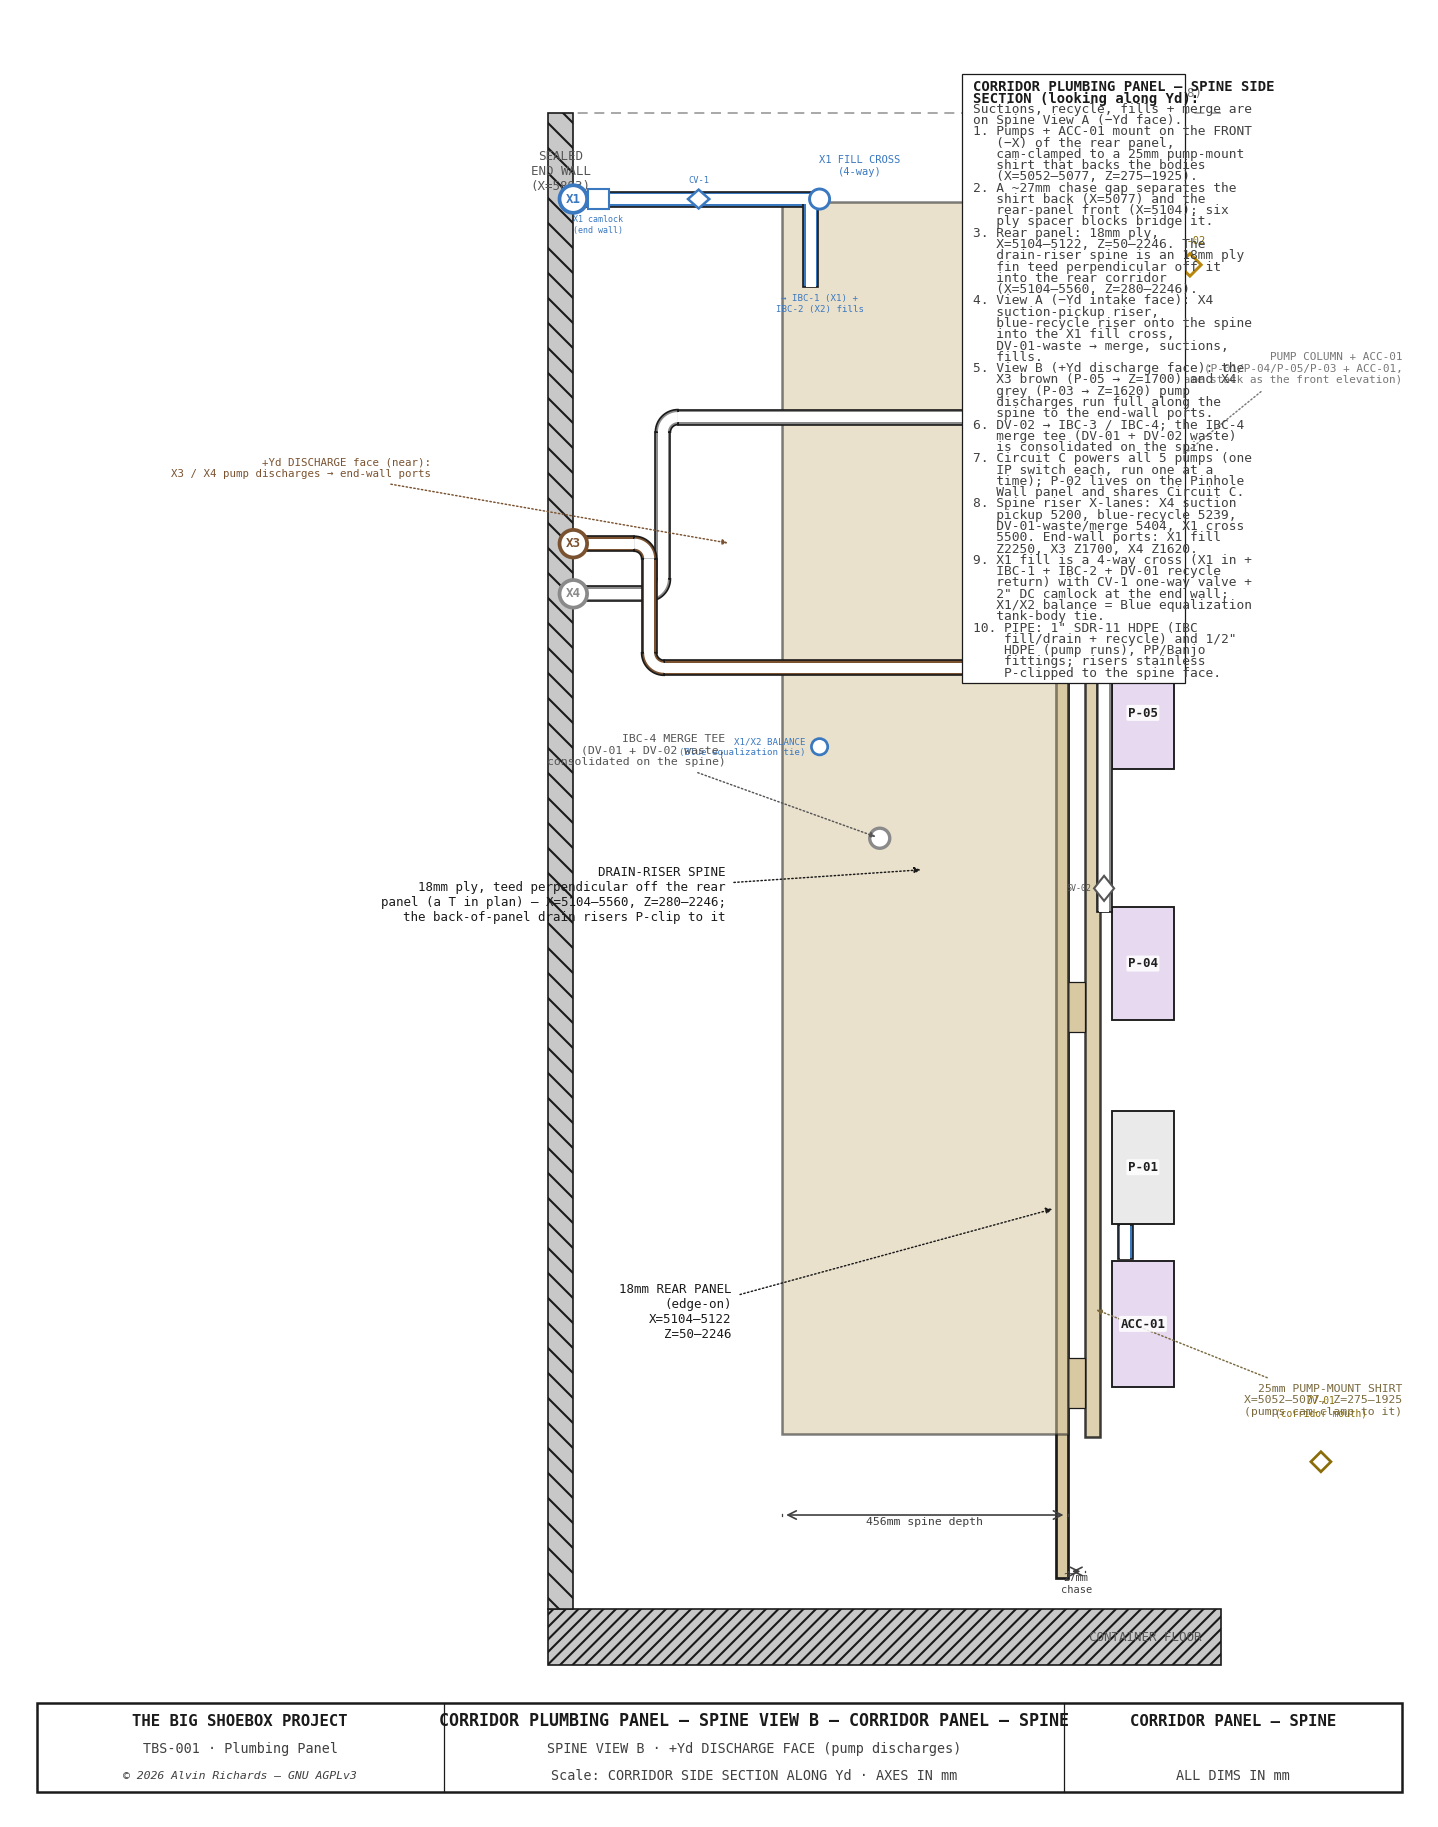
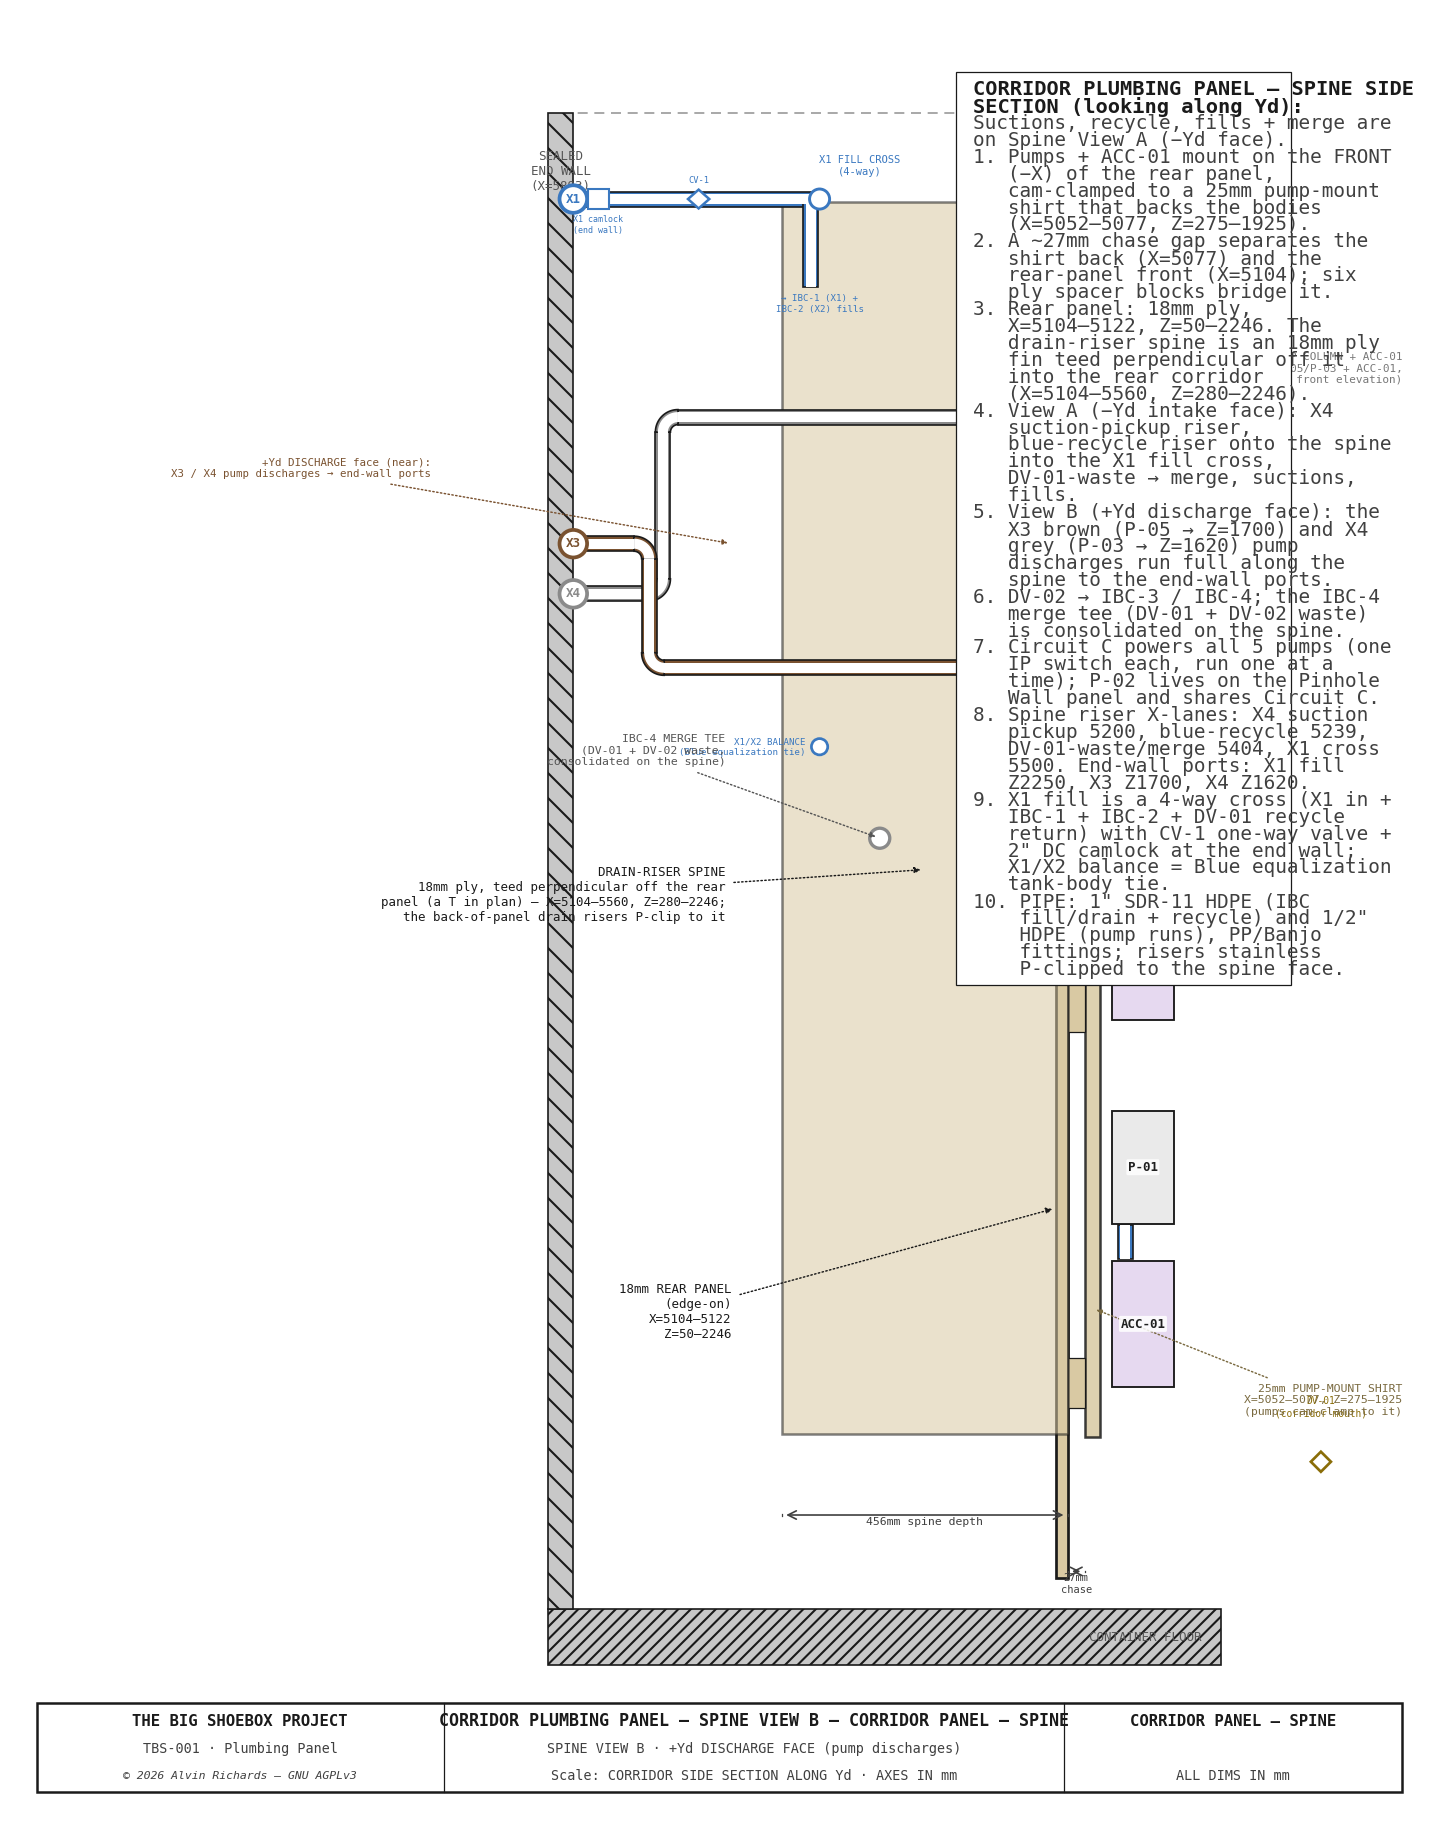
2D: enlarge the spine-view notes box 50% (font + width scaled, same wrap)
Per review: scaled the notes block up 50% for legibility — fs 6.2 to 9.3, width
320 to 480, line spacing 18 to 27; wrap stays 36 chars so the hanging-indent
layout is unchanged, just larger. Both spine views.

diff --git a/src/generators/generate_panel_layout.py b/src/generators/generate_panel_layout.py
@@ -1180,7 +1180,7 @@ def spine_view(side):
         "8. Spine riser X-lanes: X4 suction pickup 5200, blue-recycle 5239, DV-01-waste/merge 5404, X1 cross 5500. End-wall ports: X1 fill Z2250, X3 Z1700, X4 Z1620.",
         "9. X1 fill is a 4-way cross (X1 in + IBC-1 + IBC-2 + DV-01 recycle return) with CV-1 one-way valve + 2\" DC camlock at the end wall; X1/X2 balance = Blue equalization tank-body tie.",
         "10. PIPE: 1\" SDR-11 HDPE (IBC fill/drain + recycle) and 1/2\" HDPE (pump runs), PP/Banjo fittings; risers stainless P-clipped to the spine face.",
-    ], mxa(6065), 2440, spacing=18, fs=6.2, ha="left", width=320, wrap=36, font=FB)
+    ], mxa(6065), 2440, spacing=27, fs=9.3, ha="left", width=480, wrap=36, font=FB)
 
     if _NEAR == '-Yd':
         dtitle = "CORRIDOR PLUMBING PANEL — SPINE VIEW A"
